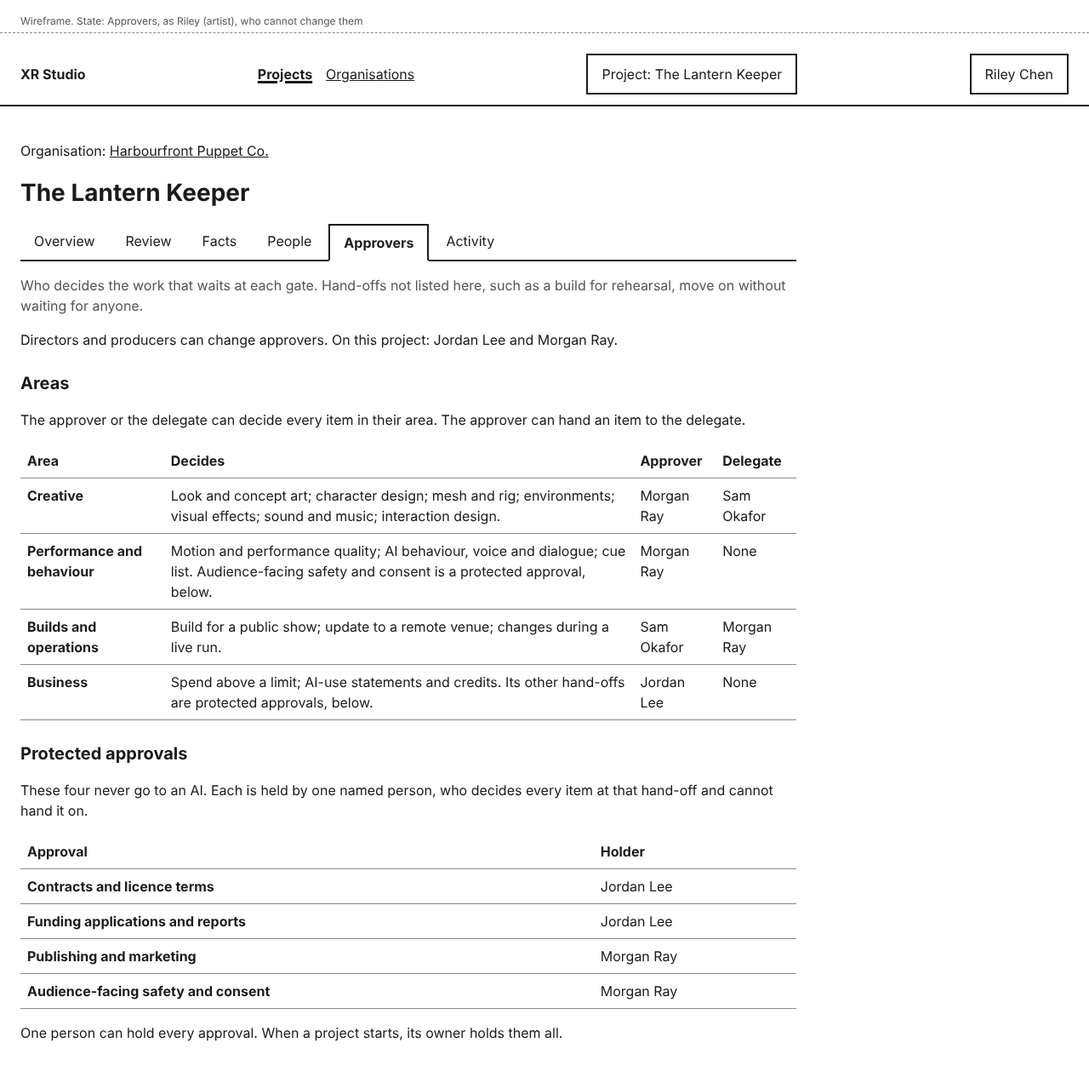
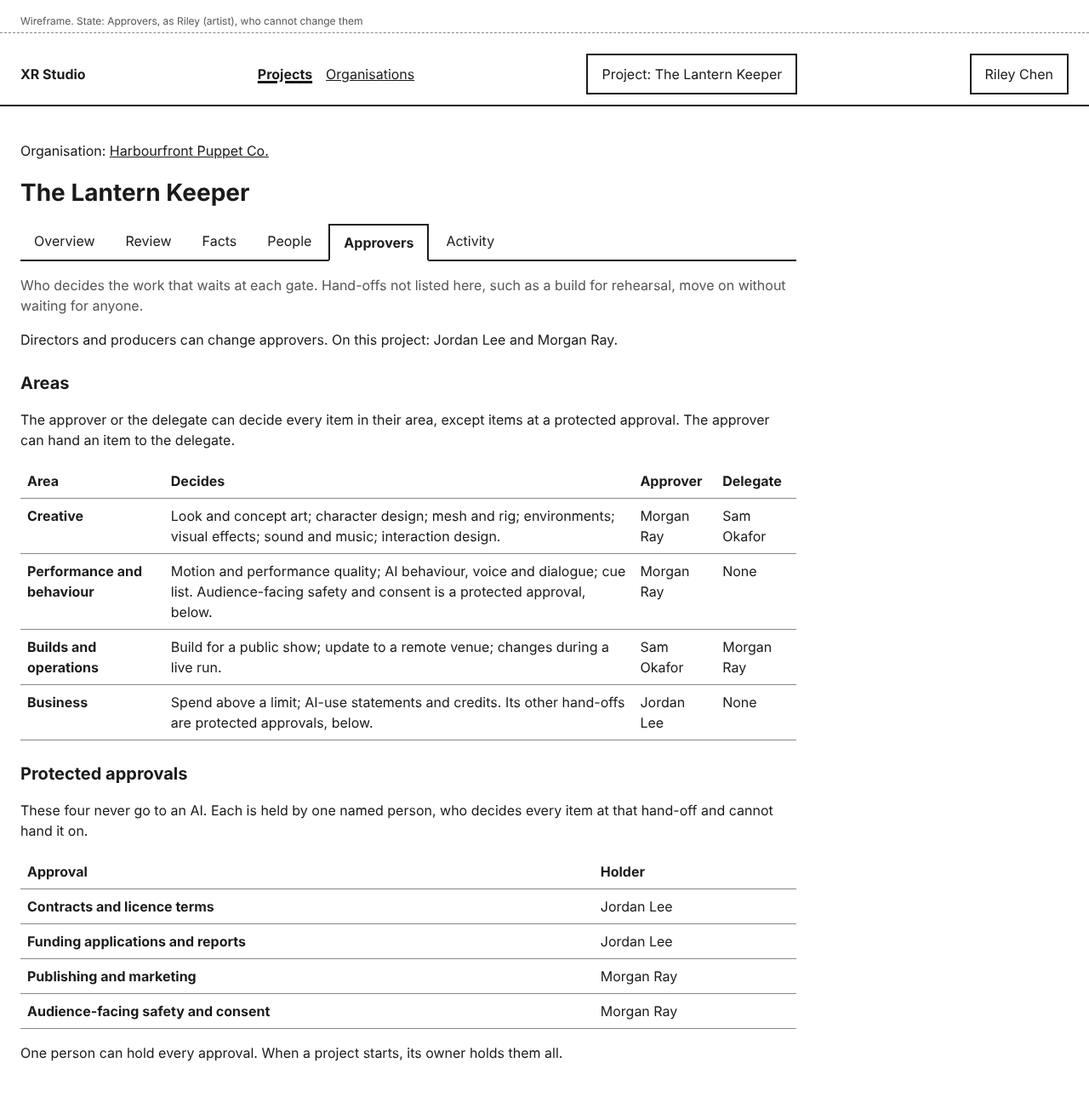
Revise slice 3 designs after the persona walkthrough
- Everything waiting: anyone on the project can see held work and who
  it waits for, and open items read only.
- Feedback shows with every decision, and a rejected item can be sent
  again.
- Reject asks for confirmation; Hand to shows a notice; delegates can
  filter to items handed to them; a requester who can decide their own
  item may.
- 3D model files can be sent (proposed); documents that really hold
  bank or tax numbers are an open question for the protected store.
- Approver lists mark people not signed in yet.

Claude-Session: https://claude.ai/code/session_01HWRLNPUN77RGrEngmiqL7R

diff --git a/docs/design/review-queue/send-errors.html b/docs/design/review-queue/send-errors.html
@@ -21,14 +21,14 @@
 <main id="main">
 <p><a href="#">Review</a></p>
 <h1>Send for review</h1>
-<p class="lead">Send work at a gated hand-off to the person who decides it. It waits there until they accept it.</p>
+<p class="lead">Send work for approval to the person who decides it. It waits until they accept it.</p>
 <div class="error-summary" role="alert" tabindex="-1" aria-labelledby="err-title"><h2 id="err-title">Not sent</h2><ul><li><a href="#title">Enter a title.</a></li><li><a href="#handoff">Choose the stage this work is at.</a></li><li><a href="#changed">Say what changed.</a></li><li><a href="#file">Choose a file to send.</a></li></ul></div>
 <form method="post" enctype="multipart/form-data">
 <div class="field"><label for="title">Title</label><span class="error-message" id="title-error">Enter a title.</span><input type="text" id="title" name="title" aria-describedby="title-error" aria-invalid="true" value=""></div>
-<div class="field"><label for="handoff">Stage</label><span class="hint" id="handoff-hint">Only gated hand-offs are listed. Work at other hand-offs moves on without review.</span><span class="error-message" id="handoff-error">Choose the stage this work is at.</span><select id="handoff" name="handoff" aria-describedby="handoff-error handoff-hint" aria-invalid="true"><option value="" selected>Choose a stage</option><optgroup label="Creative"><option>Look and concept art</option><option>Character design</option><option>Mesh and rig</option><option>Environments</option><option>Visual effects</option><option>Sound and music</option><option>Interaction design</option></optgroup><optgroup label="Performance and behaviour"><option>Motion and performance quality</option><option>AI behaviour, voice and dialogue</option><option>Cue list</option><option>Audience-facing safety and consent</option></optgroup><optgroup label="Builds and operations"><option>Build for a public show</option><option>Update to a remote venue</option><option>Changes during a live run</option></optgroup><optgroup label="Business"><option>Funding applications and reports</option><option>Contracts and licence terms</option><option>Spend above a limit</option><option>Publishing and marketing</option><option>AI-use statements and credits</option></optgroup></select></div>
+<div class="field"><label for="handoff">Stage</label><span class="hint" id="handoff-hint">Only stages that need someone's approval are listed. Work at any other stage moves on without review.</span><span class="error-message" id="handoff-error">Choose the stage this work is at.</span><select id="handoff" name="handoff" aria-describedby="handoff-error handoff-hint" aria-invalid="true"><option value="" selected>Choose a stage</option><optgroup label="Creative"><option>Look and concept art</option><option>Character design</option><option>Mesh and rig</option><option>Environments</option><option>Visual effects</option><option>Sound and music</option><option>Interaction design</option></optgroup><optgroup label="Performance and behaviour"><option>Motion and performance quality</option><option>AI behaviour, voice and dialogue</option><option>Cue list</option><option>Audience-facing safety and consent</option></optgroup><optgroup label="Builds and operations"><option>Build for a public show</option><option>Update to a remote venue</option><option>Changes during a live run</option></optgroup><optgroup label="Business"><option>Funding applications and reports</option><option>Contracts and licence terms</option><option>Spend above a limit</option><option>Publishing and marketing</option><option>AI-use statements and credits</option></optgroup></select></div>
 <div class="summary" role="status" aria-live="polite"></div>
 <div class="field"><label for="changed">What changed</label><span class="hint" id="changed-hint">What the reviewer should look at. Keep bank details and tax numbers out: agents can read this.</span><span class="error-message" id="changed-error">Say what changed.</span><textarea id="changed" name="changed" aria-describedby="changed-error changed-hint" aria-invalid="true"></textarea></div>
-<div class="field"><label for="file">File</label><span class="hint" id="file-hint">A video, image, audio, PDF or Word file. The text of PDFs and Word documents is checked for identifiers, as for work samples.</span><span class="error-message" id="file-error">Choose a file to send.</span><input type="file" id="file" name="file" aria-describedby="file-error file-hint" aria-invalid="true"></div>
+<div class="field"><label for="file">File</label><span class="hint" id="file-hint">A video, image, audio, PDF, Word or 3D model file (.glb, .gltf, .fbx or .usdz). The text of PDFs and Word documents is checked for bank details and tax numbers, as for work samples.</span><span class="error-message" id="file-error">Choose a file to send.</span><input type="file" id="file" name="file" aria-describedby="file-error file-hint" aria-invalid="true"></div>
 <div class="field"><label for="waiting">Is other work waiting on this decision? <span class="optional">(optional)</span></label><span class="hint" id="waiting-hint">Choose the stage that cannot start until this is decided. The item is then marked as blocking.</span><select id="waiting" name="waiting" aria-describedby="waiting-hint"><option value="" selected>Nothing is waiting</option><optgroup label="Creative"><option>Look and concept art</option><option>Character design</option><option>Mesh and rig</option><option>Environments</option><option>Visual effects</option><option>Sound and music</option><option>Interaction design</option></optgroup><optgroup label="Performance and behaviour"><option>Motion and performance quality</option><option>AI behaviour, voice and dialogue</option><option>Cue list</option><option>Audience-facing safety and consent</option></optgroup><optgroup label="Builds and operations"><option>Build for a public show</option><option>Update to a remote venue</option><option>Changes during a live run</option></optgroup><optgroup label="Business"><option>Funding applications and reports</option><option>Contracts and licence terms</option><option>Spend above a limit</option><option>Publishing and marketing</option><option>AI-use statements and credits</option></optgroup></select></div>
 <div class="actions"><button type="submit">Send for review</button><a href="#">Cancel</a></div>
 </form>

diff --git a/docs/design/review-queue/queue-handed.html b/docs/design/review-queue/queue-handed.html
@@ -1,0 +1,98 @@
+<!doctype html>
+<html lang="en-GB">
+<head>
+<meta charset="utf-8">
+<meta name="viewport" content="width=device-width, initial-scale=1">
+<title>Handed to Sam Okafor - Review - The Lantern Keeper - XR Studio</title>
+<link rel="stylesheet" href="../wireframe.css">
+</head>
+<body>
+<p class="state-label">Wireframe. State: the queue after Hand to; focus on the notice</p>
+<a class="skip" href="#main">Skip to main content</a>
+<header class="app">
+  <a class="brand" href="#">XR Studio</a>
+  <nav aria-label="Main"><ul>
+    <li><a href="#" aria-current="true">Projects</a></li>
+    <li><a href="#">Organisations</a></li>
+  </ul></nav>
+  <div class="switcher"><button type="button" class="secondary" aria-expanded="false" aria-controls="project-menu">Project: The Lantern Keeper</button></div>
+  <div class="account"><button type="button" class="secondary" aria-expanded="false" aria-controls="account-menu">Morgan Ray</button></div>
+</header>
+<main id="main">
+<p>Organisation: <a href="#">Harbourfront Puppet Co.</a></p>
+<h1>The Lantern Keeper</h1>
+<nav aria-label="Project"><ul class="tabs"><li><a href="#">Overview</a></li><li><a href="#" aria-current="page">Review</a></li><li><a href="#">Facts</a></li><li><a href="#">People</a></li><li><a href="#">Approvers</a></li><li><a href="#">Activity</a></li></ul></nav>
+<div class="notice" role="status" tabindex="-1"><p>Handed to Sam Okafor: Harbour at night, lighting pass. It shows in Sam's queue as handed to them. You can still decide it.</p></div>
+<p class="lead">Work waiting for your decision, grouped by the gate it is held at. Groups with blocking items come first, oldest first.</p>
+<div class="subnav"><a class="button" href="#">Send for review</a><a href="#">Sent by you</a><a href="#">Everything waiting</a></div>
+<form method="get" class="filters" aria-label="Filter the queue">
+<div class="filter-row">
+<div class="field"><label for="f-area">Area</label><select id="f-area" name="area"><option selected>All areas</option><option>Creative</option><option>Performance and behaviour</option><option>Builds and operations</option><option>Business</option></select></div>
+<div class="field"><label for="f-handed">Handed to</label><select id="f-handed" name="handed"><option selected>Anyone</option><option>Not handed on</option><option>Sam Okafor</option></select></div>
+</div>
+<div class="actions"><button type="submit">Apply filters</button><a href="#">Clear filters</a></div>
+</form>
+<p>4 items waiting for your decision, none blocking.</p>
+<form method="post">
+<div class="batch" role="group" aria-labelledby="batch-label"><p id="batch-label"><strong>With the items you select</strong></p>
+<div class="actions"><button type="submit" name="batch" value="accept">Accept selected</button><button type="submit" name="batch" value="revise" class="secondary">Request revision for selected</button><button type="submit" name="batch" value="reject" class="secondary">Reject selected</button></div></div>
+<section aria-labelledby="g-character-design">
+<div class="group-head"><h2 id="g-character-design">Character design</h2><p class="hint">Creative. 1 item.</p></div>
+<ul class="items">
+<li class="item">
+<input type="checkbox" id="sel-2" name="items" value="2" aria-label="Select Ferry pilot character sheet">
+<div class="preview" role="img" aria-label="Preview of pilot-sheet.png">pilot-sheet.png</div>
+<div>
+<h3><a href="#">Ferry pilot character sheet</a></h3>
+<dl class="meta"><dt>Stage</dt><dd>Character design (Creative)</dd><dt>Requested by</dt><dd>Riley Chen, 12 November, 11:30</dd><dt>What changed</dt><dd>First version.</dd></dl>
+
+</div>
+</li>
+</ul>
+</section>
+<section aria-labelledby="g-environments">
+<div class="group-head"><h2 id="g-environments">Environments</h2><p class="hint">Creative. 1 item.</p></div>
+<ul class="items">
+<li class="item">
+<input type="checkbox" id="sel-3" name="items" value="3" aria-label="Select Harbour at night, lighting pass">
+<div class="preview" role="img" aria-label="Preview of harbour-night.png">harbour-night.png</div>
+<div>
+<h3><a href="#">Harbour at night, lighting pass</a></h3>
+<dl class="meta"><dt>Stage</dt><dd>Environments (Creative)</dd><dt>Requested by</dt><dd>Riley Chen, 11 November, 09:40</dd><dt>What changed</dt><dd>Lamps warmer; fog lowered so the stage edge shows.</dd></dl>
+<p><span class="tag">Handed to Sam Okafor</span></p>
+</div>
+</li>
+</ul>
+</section>
+<section aria-labelledby="g-sound-and-music">
+<div class="group-head"><h2 id="g-sound-and-music">Sound and music</h2><p class="hint">Creative. 1 item.</p></div>
+<ul class="items">
+<li class="item">
+<input type="checkbox" id="sel-4" name="items" value="4" aria-label="Select Bell sounds for the opening">
+<div class="preview" role="img" aria-label="Preview of bells.wav">bells.wav</div>
+<div>
+<h3><a href="#">Bell sounds for the opening</a></h3>
+<dl class="meta"><dt>Stage</dt><dd>Sound and music (Creative)</dd><dt>Requested by</dt><dd>Riley Chen, 12 November, 15:10</dd><dt>What changed</dt><dd>Three takes; the second is the one I prefer.</dd></dl>
+
+</div>
+</li>
+</ul>
+</section>
+<section aria-labelledby="g-cue-list">
+<div class="group-head"><h2 id="g-cue-list">Cue list</h2><p class="hint">Performance and behaviour. 1 item.</p></div>
+<ul class="items">
+<li class="item">
+<input type="checkbox" id="sel-5" name="items" value="5" aria-label="Select Opening scene cue list">
+<div class="preview" role="img" aria-label="Preview of opening-cues.pdf">opening-cues.pdf</div>
+<div>
+<h3><a href="#">Opening scene cue list</a></h3>
+<dl class="meta"><dt>Stage</dt><dd>Cue list (Performance and behaviour)</dd><dt>Requested by</dt><dd>Sam Okafor, 12 November, 17:20</dd><dt>What changed</dt><dd>Added the bell cue and moved the blackout later.</dd></dl>
+
+</div>
+</li>
+</ul>
+</section>
+</form>
+</main>
+</body>
+</html>

diff --git a/docs/design/review-queue/send.html b/docs/design/review-queue/send.html
@@ -21,13 +21,13 @@
 <main id="main">
 <p><a href="#">Review</a></p>
 <h1>Send for review</h1>
-<p class="lead">Send work at a gated hand-off to the person who decides it. It waits there until they accept it.</p>
+<p class="lead">Send work for approval to the person who decides it. It waits until they accept it.</p>
 <form method="post" enctype="multipart/form-data">
 <div class="field"><label for="title">Title</label><input type="text" id="title" name="title"  value="Lantern Keeper character sheet"></div>
-<div class="field"><label for="handoff">Stage</label><span class="hint" id="handoff-hint">Only gated hand-offs are listed. Work at other hand-offs moves on without review.</span><select id="handoff" name="handoff" aria-describedby="handoff-hint"><option value="">Choose a stage</option><optgroup label="Creative"><option>Look and concept art</option><option selected>Character design</option><option>Mesh and rig</option><option>Environments</option><option>Visual effects</option><option>Sound and music</option><option>Interaction design</option></optgroup><optgroup label="Performance and behaviour"><option>Motion and performance quality</option><option>AI behaviour, voice and dialogue</option><option>Cue list</option><option>Audience-facing safety and consent</option></optgroup><optgroup label="Builds and operations"><option>Build for a public show</option><option>Update to a remote venue</option><option>Changes during a live run</option></optgroup><optgroup label="Business"><option>Funding applications and reports</option><option>Contracts and licence terms</option><option>Spend above a limit</option><option>Publishing and marketing</option><option>AI-use statements and credits</option></optgroup></select></div>
+<div class="field"><label for="handoff">Stage</label><span class="hint" id="handoff-hint">Only stages that need someone's approval are listed. Work at any other stage moves on without review.</span><select id="handoff" name="handoff" aria-describedby="handoff-hint"><option value="">Choose a stage</option><optgroup label="Creative"><option>Look and concept art</option><option selected>Character design</option><option>Mesh and rig</option><option>Environments</option><option>Visual effects</option><option>Sound and music</option><option>Interaction design</option></optgroup><optgroup label="Performance and behaviour"><option>Motion and performance quality</option><option>AI behaviour, voice and dialogue</option><option>Cue list</option><option>Audience-facing safety and consent</option></optgroup><optgroup label="Builds and operations"><option>Build for a public show</option><option>Update to a remote venue</option><option>Changes during a live run</option></optgroup><optgroup label="Business"><option>Funding applications and reports</option><option>Contracts and licence terms</option><option>Spend above a limit</option><option>Publishing and marketing</option><option>AI-use statements and credits</option></optgroup></select></div>
 <div class="summary" role="status" aria-live="polite"><p>Morgan Ray, the Creative approver, or Sam Okafor, the delegate, decides this.</p></div>
 <div class="field"><label for="changed">What changed</label><span class="hint" id="changed-hint">What the reviewer should look at. Keep bank details and tax numbers out: agents can read this.</span><textarea id="changed" name="changed" aria-describedby="changed-hint">Front and side views with the coat shortened, as asked.</textarea></div>
-<div class="field"><label for="file">File</label><span class="hint" id="file-hint">A video, image, audio, PDF or Word file. The text of PDFs and Word documents is checked for identifiers, as for work samples.</span><input type="file" id="file" name="file" aria-describedby="file-hint"></div>
+<div class="field"><label for="file">File</label><span class="hint" id="file-hint">A video, image, audio, PDF, Word or 3D model file (.glb, .gltf, .fbx or .usdz). The text of PDFs and Word documents is checked for bank details and tax numbers, as for work samples.</span><input type="file" id="file" name="file" aria-describedby="file-hint"></div>
 <div class="field"><label for="waiting">Is other work waiting on this decision? <span class="optional">(optional)</span></label><span class="hint" id="waiting-hint">Choose the stage that cannot start until this is decided. The item is then marked as blocking.</span><select id="waiting" name="waiting" aria-describedby="waiting-hint"><option value="">Nothing is waiting</option><optgroup label="Creative"><option>Look and concept art</option><option>Character design</option><option selected>Mesh and rig</option><option>Environments</option><option>Visual effects</option><option>Sound and music</option><option>Interaction design</option></optgroup><optgroup label="Performance and behaviour"><option>Motion and performance quality</option><option>AI behaviour, voice and dialogue</option><option>Cue list</option><option>Audience-facing safety and consent</option></optgroup><optgroup label="Builds and operations"><option>Build for a public show</option><option>Update to a remote venue</option><option>Changes during a live run</option></optgroup><optgroup label="Business"><option>Funding applications and reports</option><option>Contracts and licence terms</option><option>Spend above a limit</option><option>Publishing and marketing</option><option>AI-use statements and credits</option></optgroup></select></div>
 <div class="actions"><button type="submit">Send for review</button><a href="#">Cancel</a></div>
 </form>

diff --git a/docs/design/review-queue/waiting.html b/docs/design/review-queue/waiting.html
@@ -1,0 +1,38 @@
+<!doctype html>
+<html lang="en-GB">
+<head>
+<meta charset="utf-8">
+<meta name="viewport" content="width=device-width, initial-scale=1">
+<title>Everything waiting - Review - The Lantern Keeper - XR Studio</title>
+<link rel="stylesheet" href="../wireframe.css">
+</head>
+<body>
+<p class="state-label">Wireframe. State: Everything waiting, as Jordan (producer), read only</p>
+<a class="skip" href="#main">Skip to main content</a>
+<header class="app">
+  <a class="brand" href="#">XR Studio</a>
+  <nav aria-label="Main"><ul>
+    <li><a href="#" aria-current="true">Projects</a></li>
+    <li><a href="#">Organisations</a></li>
+  </ul></nav>
+  <div class="switcher"><button type="button" class="secondary" aria-expanded="false" aria-controls="project-menu">Project: The Lantern Keeper</button></div>
+  <div class="account"><button type="button" class="secondary" aria-expanded="false" aria-controls="account-menu">Jordan Lee</button></div>
+</header>
+<main id="main">
+<p>Organisation: <a href="#">Harbourfront Puppet Co.</a></p>
+<h1>The Lantern Keeper</h1>
+<nav aria-label="Project"><ul class="tabs"><li><a href="#">Overview</a></li><li><a href="#" aria-current="page">Review</a></li><li><a href="#">Facts</a></li><li><a href="#">People</a></li><li><a href="#">Approvers</a></li><li><a href="#">Activity</a></li></ul></nav>
+<div class="subnav"><a class="button" href="#">Send for review</a><a href="#">Sent by you</a><a href="#" aria-current="page">Everything waiting</a></div>
+<h2>Everything waiting</h2>
+<p>All work held at a gate on this project, oldest first, and who it waits for. Only they can decide it.</p>
+<table class="people"><caption class="visually-hidden">Work waiting for a decision, oldest first</caption>
+<thead><tr><th scope="col">Item</th><th scope="col">Stage</th><th scope="col">Sent</th><th scope="col">Waiting for</th></tr></thead>
+<tbody>
+<tr><td><a href="#">Lantern Keeper character sheet</a> <span class="tag blocking">Blocking</span></td><td data-label="Stage">Character design</td><td data-label="Sent">Riley Chen, 10 November, 16:05</td><td data-label="Waiting for">Morgan Ray or Sam Okafor (delegate)</td></tr>
+<tr><td><a href="#">Harbour at night, lighting pass</a></td><td data-label="Stage">Environments</td><td data-label="Sent">Riley Chen, 11 November, 09:40</td><td data-label="Waiting for">Sam Okafor (handed on by Morgan Ray)</td></tr>
+<tr><td><a href="#">Licence for the harbour recordings</a></td><td data-label="Stage">Contracts and licence terms</td><td data-label="Sent">Riley Chen, 12 November, 10:00</td><td data-label="Waiting for">You</td></tr>
+<tr><td><a href="#">Opening scene cue list</a></td><td data-label="Stage">Cue list</td><td data-label="Sent">Sam Okafor, 12 November, 17:20</td><td data-label="Waiting for">Morgan Ray</td></tr>
+</tbody></table>
+</main>
+</body>
+</html>

diff --git a/docs/design/approvers/change-area-error.html b/docs/design/approvers/change-area-error.html
@@ -24,8 +24,8 @@
 <p class="lead">Creative covers look and concept art, character design, mesh and rig, environments, visual effects, sound and music, and interaction design.</p>
 <div class="error-summary" role="alert" tabindex="-1" aria-labelledby="err-title"><h2 id="err-title">Not saved</h2><ul><li><a href="#delegate">Choose someone other than the approver as delegate, or No delegate.</a></li></ul></div>
 <form method="post">
-<div class="field"><label for="approver">Approver</label><span class="hint" id="approver-hint">Only people on this project who use the dashboard are listed. An agent can never approve.</span><select id="approver" name="approver" aria-describedby="approver-hint"><option>Jordan Lee</option><option selected>Morgan Ray</option><option>Riley Chen</option><option>Sam Okafor</option></select></div>
-<div class="field"><label for="delegate">Delegate <span class="optional">(optional)</span></label><span class="hint" id="delegate-hint">The delegate can decide every item in Creative, and the approver can hand items to them.</span><span class="error-message" id="delegate-error">Choose someone other than the approver as delegate, or No delegate.</span><select id="delegate" name="delegate" aria-describedby="delegate-error delegate-hint" aria-invalid="true"><option>No delegate</option><option>Jordan Lee</option><option selected>Morgan Ray</option><option>Riley Chen</option><option>Sam Okafor</option></select></div>
+<div class="field"><label for="approver">Approver</label><span class="hint" id="approver-hint">Only people on this project who use the dashboard are listed. An agent can never approve.</span><select id="approver" name="approver" aria-describedby="approver-hint"><option>Jordan Lee</option><option selected>Morgan Ray</option><option>Riley Chen (invited, not signed in yet)</option><option>Sam Okafor</option></select></div>
+<div class="field"><label for="delegate">Delegate <span class="optional">(optional)</span></label><span class="hint" id="delegate-hint">The delegate can decide every item in Creative, and the approver can hand items to them.</span><span class="error-message" id="delegate-error">Choose someone other than the approver as delegate, or No delegate.</span><select id="delegate" name="delegate" aria-describedby="delegate-error delegate-hint" aria-invalid="true"><option>No delegate</option><option>Jordan Lee</option><option selected>Morgan Ray</option><option>Riley Chen (invited, not signed in yet)</option><option>Sam Okafor</option></select></div>
 <div class="actions"><button type="submit">Save Creative</button><a href="#">Cancel</a></div>
 </form>
 </main>

diff --git a/docs/design/review-queue/sent.html b/docs/design/review-queue/sent.html
@@ -23,7 +23,7 @@
 <h1>The Lantern Keeper</h1>
 <nav aria-label="Project"><ul class="tabs"><li><a href="#">Overview</a></li><li><a href="#" aria-current="page">Review</a></li><li><a href="#">Facts</a></li><li><a href="#">People</a></li><li><a href="#">Approvers</a></li><li><a href="#">Activity</a></li></ul></nav>
 <div class="notice" role="status" tabindex="-1"><p>Sent for review: Ferry pilot character sheet. It waits for Morgan Ray or Sam Okafor.</p></div>
-<div class="subnav"><a class="button" href="#">Send for review</a><a href="#" aria-current="page">Sent by you</a></div>
+<div class="subnav"><a class="button" href="#">Send for review</a><a href="#" aria-current="page">Sent by you</a><a href="#">Everything waiting</a></div>
 <h2>Sent by you</h2>
 <table class="people"><caption class="visually-hidden">Work you sent for review, newest first</caption>
 <thead><tr><th scope="col">Item</th><th scope="col">Stage</th><th scope="col">Sent</th><th scope="col">Status</th></tr></thead>
@@ -33,8 +33,9 @@
 <tr><td><a href="#">Lighthouse concept, second pass</a></td><td data-label="Stage">Look and concept art</td><td data-label="Sent">9 November, 15:00</td><td data-label="Status">Revision requested by Morgan Ray, 11 November, 16:40
 <p class="quote">Warmer light in the lamp room, and keep the stairs readable from the audience side.</p><a href="#">Send a revised version<span class="visually-hidden"> of Lighthouse concept, second pass</span></a></td></tr>
 <tr><td><a href="#">Lighthouse concept</a></td><td data-label="Stage">Look and concept art</td><td data-label="Sent">5 November, 12:00</td><td data-label="Status">Rejected by Morgan Ray, 6 November, 09:10
-<p class="quote">Too close to the poster for last year's show. Start from the brief again.</p></td></tr>
-<tr><td><a href="#">Keeper's lantern prop</a></td><td data-label="Stage">Character design</td><td data-label="Sent">4 November, 10:20</td><td data-label="Status">Accepted by Sam Okafor, 4 November, 17:05</td></tr>
+<p class="quote">Too close to the poster for last year's show. Start from the brief again.</p><a href="#">Send it again<span class="visually-hidden">: Lighthouse concept</span></a></td></tr>
+<tr><td><a href="#">Keeper's lantern prop</a></td><td data-label="Stage">Character design</td><td data-label="Sent">4 November, 10:20</td><td data-label="Status">Accepted by Sam Okafor, 4 November, 17:05
+<p class="quote">Good. Keep the glass this colour for the mesh.</p></td></tr>
 </tbody></table>
 </main>
 </body>

diff --git a/docs/design/approvers/change-area.html b/docs/design/approvers/change-area.html
@@ -23,8 +23,8 @@
 <h1>Creative: approver and delegate</h1>
 <p class="lead">Creative covers look and concept art, character design, mesh and rig, environments, visual effects, sound and music, and interaction design.</p>
 <form method="post">
-<div class="field"><label for="approver">Approver</label><span class="hint" id="approver-hint">Only people on this project who use the dashboard are listed. An agent can never approve.</span><select id="approver" name="approver" aria-describedby="approver-hint"><option>Jordan Lee</option><option selected>Morgan Ray</option><option>Riley Chen</option><option>Sam Okafor</option></select></div>
-<div class="field"><label for="delegate">Delegate <span class="optional">(optional)</span></label><span class="hint" id="delegate-hint">The delegate can decide every item in Creative, and the approver can hand items to them.</span><select id="delegate" name="delegate" aria-describedby="delegate-hint"><option>No delegate</option><option>Jordan Lee</option><option>Morgan Ray</option><option>Riley Chen</option><option selected>Sam Okafor</option></select></div>
+<div class="field"><label for="approver">Approver</label><span class="hint" id="approver-hint">Only people on this project who use the dashboard are listed. An agent can never approve.</span><select id="approver" name="approver" aria-describedby="approver-hint"><option>Jordan Lee</option><option selected>Morgan Ray</option><option>Riley Chen (invited, not signed in yet)</option><option>Sam Okafor</option></select></div>
+<div class="field"><label for="delegate">Delegate <span class="optional">(optional)</span></label><span class="hint" id="delegate-hint">The delegate can decide every item in Creative, and the approver can hand items to them.</span><select id="delegate" name="delegate" aria-describedby="delegate-hint"><option>No delegate</option><option>Jordan Lee</option><option>Morgan Ray</option><option>Riley Chen (invited, not signed in yet)</option><option selected>Sam Okafor</option></select></div>
 <div class="actions"><button type="submit">Save Creative</button><a href="#">Cancel</a></div>
 </form>
 </main>

diff --git a/docs/design/review-queue/batch-reject.html b/docs/design/review-queue/batch-reject.html
@@ -1,0 +1,32 @@
+<!doctype html>
+<html lang="en-GB">
+<head>
+<meta charset="utf-8">
+<meta name="viewport" content="width=device-width, initial-scale=1">
+<title>Reject 2 items? - Review - The Lantern Keeper - XR Studio</title>
+<link rel="stylesheet" href="../wireframe.css">
+</head>
+<body>
+<p class="state-label">Wireframe. State: Reject (one item or a selection), confirmation; focus starts on the heading</p>
+<a class="skip" href="#main">Skip to main content</a>
+<header class="app">
+  <a class="brand" href="#">XR Studio</a>
+  <nav aria-label="Main"><ul>
+    <li><a href="#" aria-current="true">Projects</a></li>
+    <li><a href="#">Organisations</a></li>
+  </ul></nav>
+  <div class="switcher"><button type="button" class="secondary" aria-expanded="false" aria-controls="project-menu">Project: The Lantern Keeper</button></div>
+  <div class="account"><button type="button" class="secondary" aria-expanded="false" aria-controls="account-menu">Morgan Ray</button></div>
+</header>
+<main id="main">
+<div class="dialog" role="dialog" aria-modal="true" aria-labelledby="dlg-title">
+<h1 id="dlg-title" tabindex="-1">Reject 2 items?</h1>
+<ul><li>Bell sounds for the opening, from Riley Chen</li><li>Opening scene cue list, from Sam Okafor</li></ul>
+<p>A rejected item does not move on. Each requester sees your decision, and can send the work again.</p>
+<form method="post">
+<div class="field"><label for="reject-feedback">Feedback <span class="optional">(optional)</span></label><span class="hint" id="reject-feedback-hint">Each requester sees this with their item. Say why.</span><textarea id="reject-feedback" name="feedback" aria-describedby="reject-feedback-hint"></textarea></div>
+<div class="actions"><button type="button" class="secondary">Go back</button><button type="submit">Reject 2 items</button></div></form>
+</div>
+</main>
+</body>
+</html>

diff --git a/docs/design/approvers/change-protected.html b/docs/design/approvers/change-protected.html
@@ -23,7 +23,7 @@
 <h1>Contracts and licence terms: holder</h1>
 <p class="lead">The holder decides every item at the contracts and licence terms hand-off. It is one of the four protected approvals: only a named person can hold it, never an AI, and the holder cannot hand items on.</p>
 <form method="post">
-<div class="field"><label for="holder">Holder</label><span class="hint" id="holder-hint">Only people on this project who use the dashboard are listed. Agents are never listed.</span><select id="holder" name="holder" aria-describedby="holder-hint"><option selected>Jordan Lee</option><option>Morgan Ray</option><option>Riley Chen</option><option>Sam Okafor</option></select></div>
+<div class="field"><label for="holder">Holder</label><span class="hint" id="holder-hint">Only people on this project who use the dashboard are listed. Agents are never listed.</span><select id="holder" name="holder" aria-describedby="holder-hint"><option selected>Jordan Lee</option><option>Morgan Ray</option><option>Riley Chen (invited, not signed in yet)</option><option>Sam Okafor</option></select></div>
 <div class="actions"><button type="submit">Save contracts and licence terms</button><a href="#">Cancel</a></div>
 </form>
 </main>

diff --git a/docs/design/review-queue/queue-decided.html b/docs/design/review-queue/queue-decided.html
@@ -24,7 +24,7 @@
 <nav aria-label="Project"><ul class="tabs"><li><a href="#">Overview</a></li><li><a href="#" aria-current="page">Review</a></li><li><a href="#">Facts</a></li><li><a href="#">People</a></li><li><a href="#">Approvers</a></li><li><a href="#">Activity</a></li></ul></nav>
 <div class="notice" role="status" tabindex="-1"><p>Accepted: Lantern Keeper character sheet. Recorded as your decision at 14:20 on 13 November. Riley Chen sees it under Sent by you.</p></div>
 <p class="lead">Work waiting for your decision, grouped by the gate it is held at. Groups with blocking items come first, oldest first.</p>
-<div class="subnav"><a class="button" href="#">Send for review</a><a href="#">Sent by you</a></div>
+<div class="subnav"><a class="button" href="#">Send for review</a><a href="#">Sent by you</a><a href="#">Everything waiting</a></div>
 <form method="get" class="filters" aria-label="Filter the queue">
 <div class="filter-row">
 <div class="field"><label for="f-area">Area</label><select id="f-area" name="area"><option selected>All areas</option><option>Creative</option><option>Performance and behaviour</option><option>Builds and operations</option><option>Business</option></select></div>

diff --git a/docs/design/review-queue/queue-not-approver.html b/docs/design/review-queue/queue-not-approver.html
@@ -22,9 +22,9 @@
 <p>Organisation: <a href="#">Harbourfront Puppet Co.</a></p>
 <h1>The Lantern Keeper</h1>
 <nav aria-label="Project"><ul class="tabs"><li><a href="#">Overview</a></li><li><a href="#" aria-current="page">Review</a></li><li><a href="#">Facts</a></li><li><a href="#">People</a></li><li><a href="#">Approvers</a></li><li><a href="#">Activity</a></li></ul></nav>
-<div class="subnav"><a class="button" href="#">Send for review</a><a href="#">Sent by you</a></div>
+<div class="subnav"><a class="button" href="#">Send for review</a><a href="#">Sent by you</a><a href="#">Everything waiting</a></div>
 <p>You do not approve any area on this project, so nothing waits for your decision here. <a href="#">Approvers</a> lists who decides each area.</p>
-<p>To ask for a decision, use Send for review. What you have sent, and the decisions on it, are under Sent by you.</p>
+<p>To ask for a decision, use Send for review. What you have sent, and the decisions on it, are under Sent by you. Everything waiting lists all the work held at a gate on this project, and who it waits for.</p>
 </main>
 </body>
 </html>

diff --git a/docs/design/approvers/approvers.html b/docs/design/approvers/approvers.html
@@ -24,7 +24,7 @@
 <nav aria-label="Project"><ul class="tabs"><li><a href="#">Overview</a></li><li><a href="#">Review</a></li><li><a href="#">Facts</a></li><li><a href="#">People</a></li><li><a href="#" aria-current="page">Approvers</a></li><li><a href="#">Activity</a></li></ul></nav>
 <p class="lead">Who decides the work that waits at each gate. Hand-offs not listed here, such as a build for rehearsal, move on without waiting for anyone.</p>
 <h2>Areas</h2>
-<p>The approver or the delegate can decide every item in their area. The approver can hand an item to the delegate.</p>
+<p>The approver or the delegate can decide every item in their area, except items at a protected approval. The approver can hand an item to the delegate.</p>
 <table class="people"><caption class="visually-hidden">Approver and delegate for each area</caption>
 <thead><tr><th scope="col">Area</th><th scope="col">Decides</th><th scope="col">Approver</th><th scope="col">Delegate</th><th scope="col"><span class="visually-hidden">Actions</span></th></tr></thead>
 <tbody>
